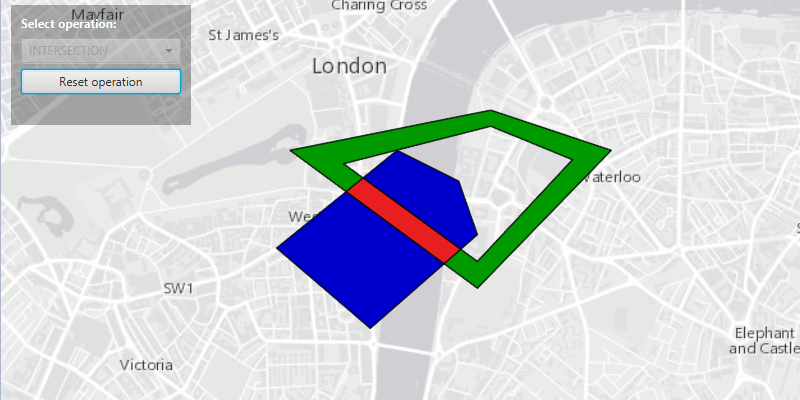
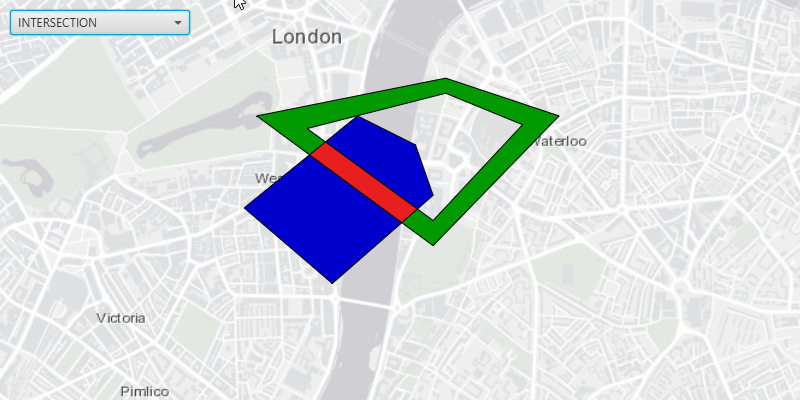
update ui, screenshot

diff --git a/src/main/java/com/esri/samples/geometry/spatial_operations/SpatialOperationsSample.java b/src/main/java/com/esri/samples/geometry/spatial_operations/SpatialOperationsSample.java
@@ -23,13 +23,7 @@ import javafx.geometry.Pos;
 import javafx.scene.Scene;
 import javafx.scene.control.Alert;
 import javafx.scene.control.ComboBox;
-import javafx.scene.control.Label;
-import javafx.scene.layout.Background;
-import javafx.scene.layout.BackgroundFill;
-import javafx.scene.layout.CornerRadii;
 import javafx.scene.layout.StackPane;
-import javafx.scene.layout.VBox;
-import javafx.scene.paint.Paint;
 import javafx.stage.Stage;
 
 import com.esri.arcgisruntime.geometry.Geometry;
@@ -80,23 +74,11 @@ public class SpatialOperationsSample extends Application {
       stage.setScene(scene);
       stage.show();
 
-      // create a control panel
-      VBox controlsVBox = new VBox(6);
-      controlsVBox.setBackground(new Background(new BackgroundFill(Paint.valueOf("rgba(0,0,0,0.3)"), CornerRadii.EMPTY,
-          Insets.EMPTY)));
-      controlsVBox.setPadding(new Insets(10.0));
-      controlsVBox.setMaxSize(180, 60);
-      controlsVBox.getStyleClass().add("panel-region");
-
-      // create section for combo box
-      Label geomOperationLabel = new Label("Select operation:");
-      geomOperationLabel.getStyleClass().add("panel-label");
-
       // initialise comboBox items
       ComboBox<OPERATION_TYPE> geomOperationBox = new ComboBox<>(FXCollections.observableArrayList(OPERATION_TYPE
           .values()));
       geomOperationBox.getSelectionModel().select(OPERATION_TYPE.NONE);
-      geomOperationBox.setMaxWidth(Double.MAX_VALUE);
+      geomOperationBox.setMaxWidth(180);
       geomOperationBox.setDisable(true);
 
       // handle ComboBox event to perform the selected geometry operation
@@ -125,9 +107,6 @@ public class SpatialOperationsSample extends Application {
         SimpleFillSymbol redSymbol = new SimpleFillSymbol(SimpleFillSymbol.Style.SOLID, 0xFFE91F1F, line);
         resultGeomOverlay.getGraphics().add(new Graphic(resultPolygon, redSymbol));
       });
-
-      // add label and buttons to the control panel
-      controlsVBox.getChildren().addAll(geomOperationLabel, geomOperationBox);
 
       // create ArcGISMap with topographic basemap
       ArcGISMap map = new ArcGISMap(Basemap.createLightGrayCanvas());
@@ -163,9 +142,9 @@ public class SpatialOperationsSample extends Application {
       geomOverlay.getGraphics().add(polygon2);
 
       // add the map view and control panel to stack pane
-      stackPane.getChildren().addAll(mapView, controlsVBox);
-      StackPane.setAlignment(controlsVBox, Pos.TOP_LEFT);
-      StackPane.setMargin(controlsVBox, new Insets(10, 0, 0, 10));
+      stackPane.getChildren().addAll(mapView, geomOperationBox);
+      StackPane.setAlignment(geomOperationBox, Pos.TOP_LEFT);
+      StackPane.setMargin(geomOperationBox, new Insets(10, 0, 0, 10));
 
     } catch (Exception e) {
       // on any error, display the stack trace
